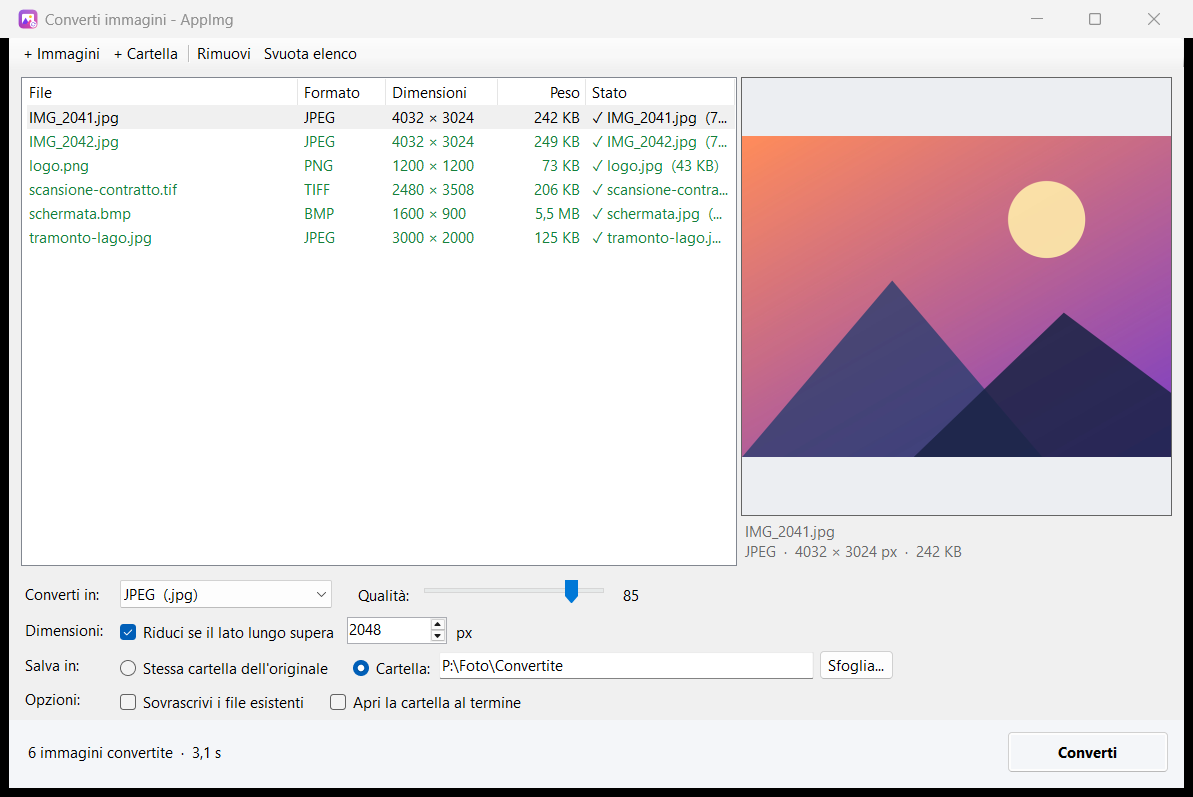
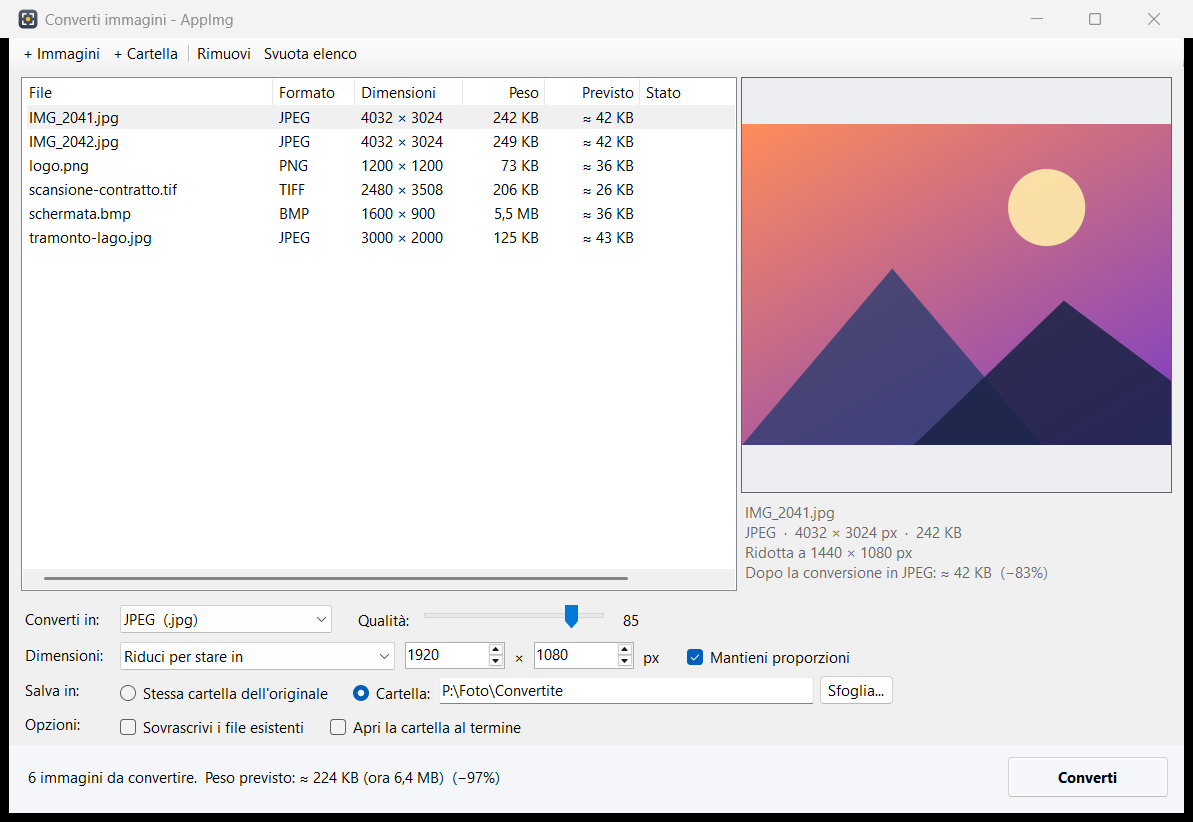
Screenshot aggiornati: nuova icona e riduzione del convertitore

diff --git a/README.md b/README.md
@@ -36,7 +36,7 @@
 - La trasparenza resta nei formati che la supportano; negli altri diventa bianca. L'originale non viene mai sovrascritto: se il file esiste viene creato `foto (1).png`, salvo scelta diversa.
 - Da Esplora file: seleziona le immagini → tasto destro → **Invia a → AppImg** apre direttamente il convertitore.
 
-<p align="center"><img src="docs/convertitore.png" alt="AppImg: sei immagini convertite in JPEG" width="620"></p>
+<p align="center"><img src="docs/convertitore.png" alt="AppImg: sei immagini da convertire in JPEG, ridotte e con il peso previsto" width="620"></p>
 
 ### Formati letti
 AppImg usa i codec di Windows: legge BMP, PNG, JPEG, GIF, TIFF, ICO, JPEG XR e, con le estensioni gratuite del Microsoft Store, anche **HEIC/HEIF** (foto di iPhone), **WebP**, **AVIF**, **JPEG XL** e i **RAW** delle fotocamere (CR2, CR3, NEF, ARW, DNG, ORF, RW2...). Se un'immagine non si apre, installa l'estensione corrispondente: *Estensioni immagine HEIF* (con *Estensioni video HEVC*), *Estensioni immagine WebP*, *Estensione video AV1*, *Raw Image Extension*.
